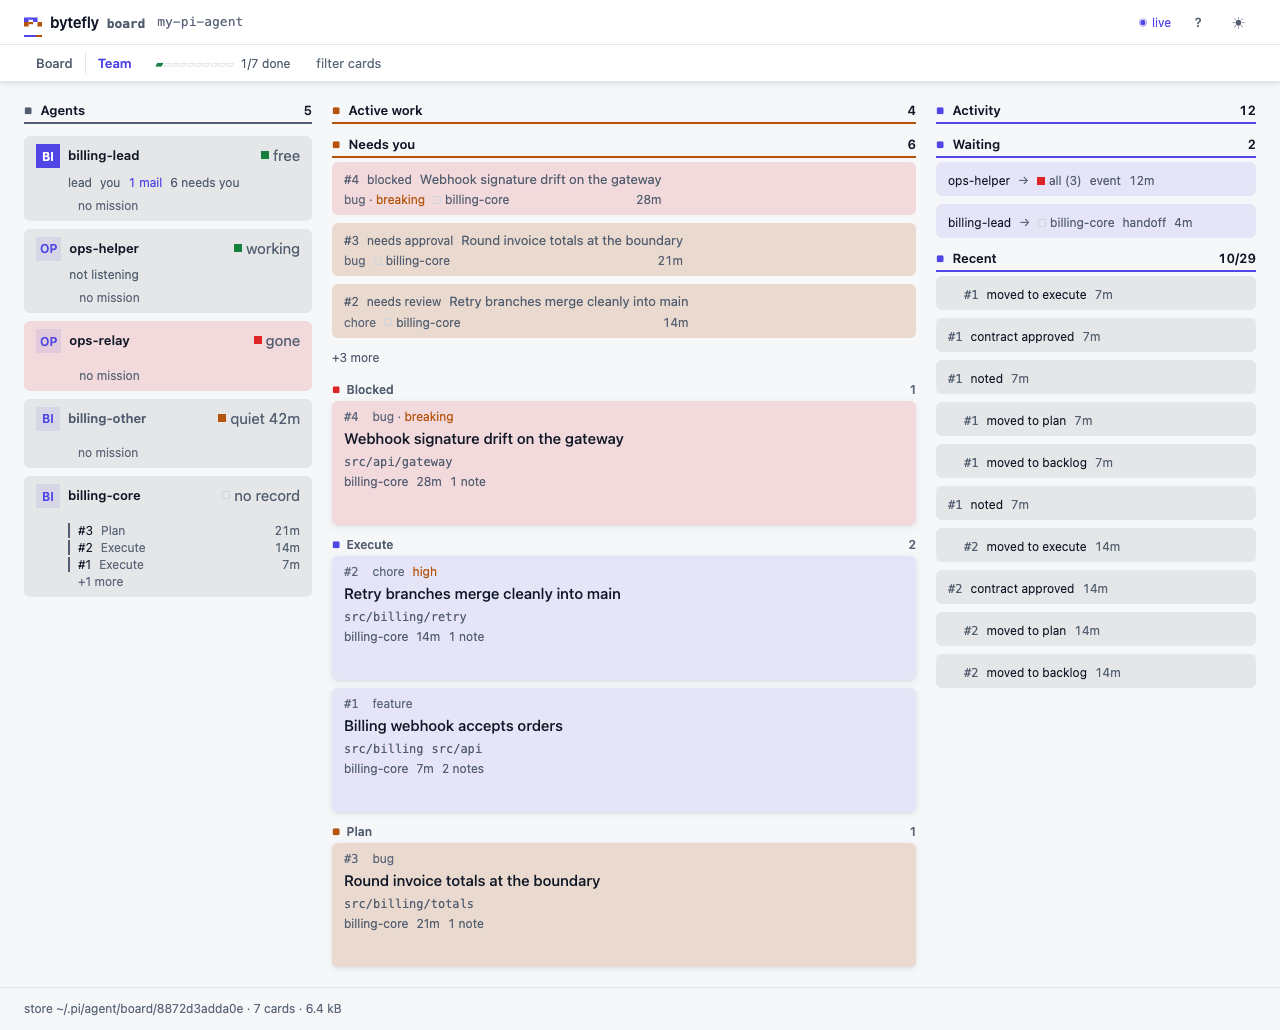
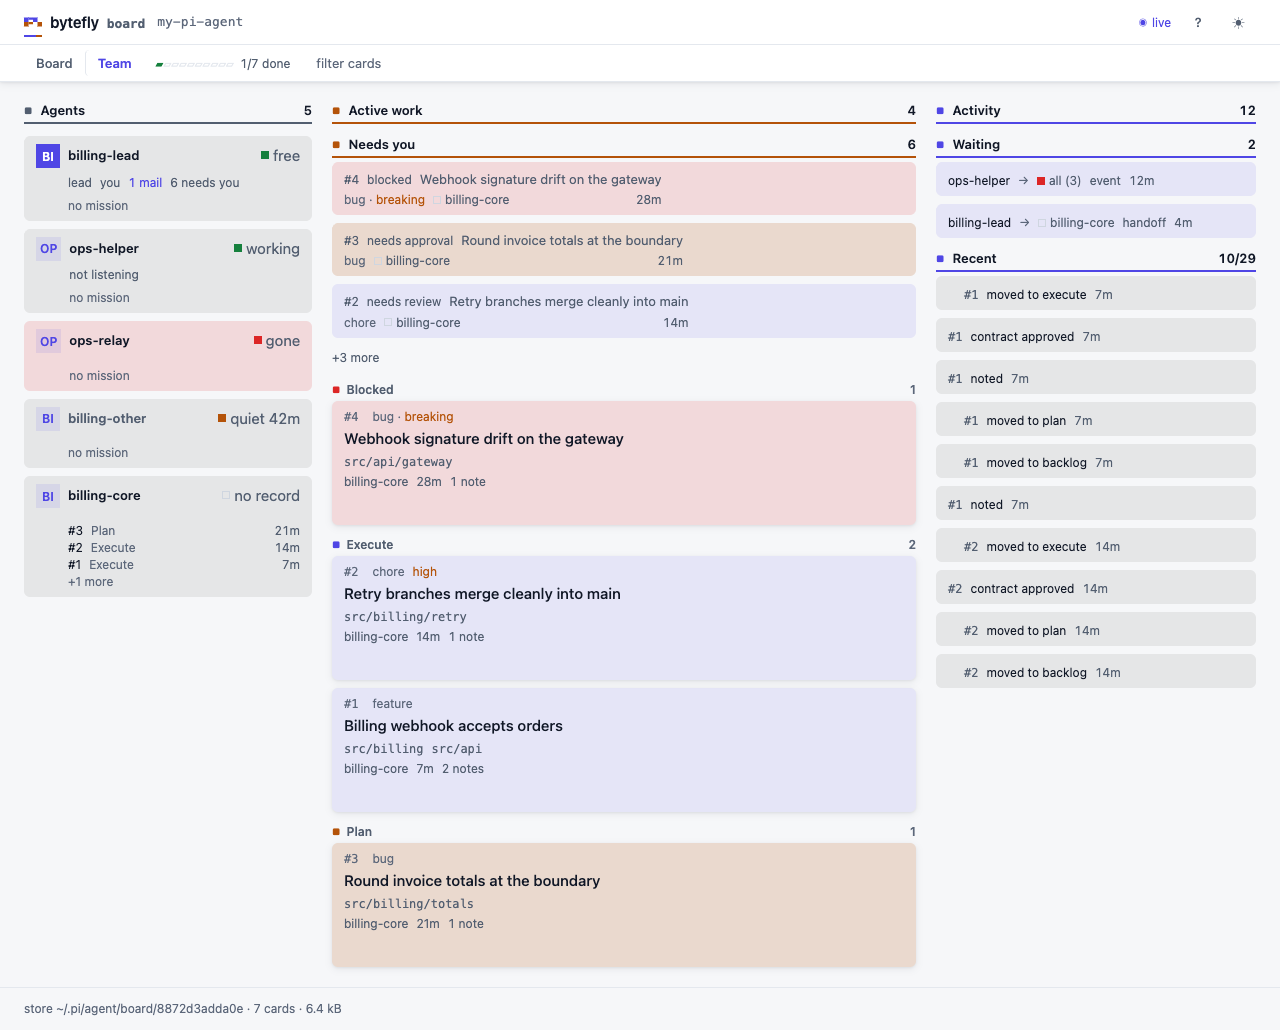
fix(board): tint a decision row with its lane's paper

diff --git a/extensions/board/view/team.test.ts b/extensions/board/view/team.test.ts
@@ -8,7 +8,7 @@
  *
  * The first half needs no browser: it is the bundle-side rule the page depends on. The second
  * boots the served page and counts, which is the only way to hold "rows are told from one another
- * by space" to a number.
+ * by space" to a number, and to see that one card drawn in two places is painted one colour.
  */
 
 import { afterAll, beforeAll, describe, expect, test } from "bun:test";
@@ -24,6 +24,7 @@ import {
 	openBoardBrowser,
 } from "../../../test/helpers/board-browser.ts";
 import { BOARD_CLIENT_JS } from "./client.ts";
+import { BOARD_CSS } from "./styles.ts";
 
 describe("the Team tab's label maps", () => {
 	test("keys a session's label without inheriting one", () => {
@@ -36,6 +37,19 @@ describe("the Team tab's label maps", () => {
 			expect(BOARD_CLIENT_JS).toContain(`var ${map} = labelMap();`);
 			expect(BOARD_CLIENT_JS).not.toContain(`var ${map} = {};`);
 		}
+	});
+});
+
+describe("the Team tab's one paper", () => {
+	test("paints a decision row on its lane's paper, and leaves the tone to the pill", () => {
+		// The row is a `.bf-row` that names its lane, so the lane's paper answers it exactly as it
+		// answers the swimlane card under it: a card drawn twice in one column is one colour.
+		expect(BOARD_CSS).toMatch(/\.board-decision\{[^}]*--paper:var\(--note-paper\)/);
+		// And no rule may paint a row by its kind again — the second legend is what this removed.
+		expect(BOARD_CSS).not.toMatch(/\.board-decision\[data-tone="[a-z]+"\]\{--paper:/);
+		// The tone is still the row's, so the mark at its edge and a danger row's sentence keep it.
+		expect(BOARD_CLIENT_JS).toContain('node.setAttribute("data-lane", card.lane)');
+		expect(BOARD_CLIENT_JS).toContain('node.setAttribute("data-tone", tone)');
 	});
 });
 
@@ -151,6 +165,50 @@ describe.skipIf(CHROME === undefined)("the Team tab's ink", () => {
 			// Three columns and three panes: the tab's six landmarks, and the only lines it draws.
 			expect(bottoms).toHaveLength(6);
 			expect(bottoms.filter((name) => !name.includes(".bf-section__cap"))).toEqual([]);
+		},
+		CASE_MS,
+	);
+
+	test(
+		"tints one card once, in the queue and in the swimlane under it",
+		async () => {
+			const page = await board.reuse();
+			await page.click("#tab-team");
+			await page.waitForSelector("#board-team .board-decision", { timeout: PAINT_MS });
+			await page.waitForTimeout(100);
+			// The ground is not composited, so two elements on one token compute one string: the paint
+			// is read, not inferred from the stylesheet.
+			const paint = await page.evaluate(() => {
+				const document = (globalThis as unknown as { document: Doc }).document;
+				const computed = (
+					globalThis as unknown as {
+						getComputedStyle(node: ElementLike): { backgroundColor: string };
+					}
+				).getComputedStyle;
+				const read = (node: ElementLike) => ({
+					card: node.getAttribute("data-card"),
+					lane: node.getAttribute("data-lane"),
+					paper: computed(node).backgroundColor,
+				});
+				const rows = Array.from(document.querySelectorAll("#board-team .board-decision"), read);
+				const cards = Array.from(document.querySelectorAll("#board-team .bf-lane .board-row"), read);
+				// The card this fixture puts in both places: the executing one, which nobody has
+				// spot-checked, so the queue and its swimlane draw the same id.
+				const shared = rows.find((row) => cards.some((card) => card.card === row.card)) ?? null;
+				const pill = document.querySelector("#board-team .board-decision .bf-tag");
+				return {
+					row: shared,
+					card: shared === null ? null : (cards.find((card) => card.card === shared.card) ?? null),
+					pill: { text: pill?.textContent ?? "", classes: (pill as unknown as { className: string })?.className ?? "" },
+				};
+			});
+			expect(paint.row?.lane).toBe("execute");
+			expect(paint.card).not.toBeNull();
+			// One card, one ground: this is the whole change, and it is only true of a computed paper.
+			expect(paint.row?.paper).toBe(paint.card?.paper);
+			// The paper stopped saying the why, so the pill still has to: its word and its tone.
+			expect(paint.pill.text).toBe("needs review");
+			expect(paint.pill.classes).toContain("bf-tone--warn");
 		},
 		CASE_MS,
 	);

diff --git a/extensions/board/view/styles.ts b/extensions/board/view/styles.ts
@@ -287,13 +287,12 @@ ${DECISION_WHY_CSS}
 /* A lane dot is a glyph in the lane's role, not a filled square. */
 .board-dot[data-lane]{background:none;color:var(--lane-role,var(--muted))}
 
-/* NEEDS YOU — one paper per decision, tinted by the tone the queue ranks it by, at one height:
-   the queue is a list of the same thing, and a decision is a fixed three lines. */
+/* NEEDS YOU — the lane's own paper, at one height: the queue is a list of the same thing, and a
+   decision is a fixed three lines. One legend per column: the paper says where the card sits,
+   which is what the swimlane card under it says too, and the tone is left to the pill, the mark
+   at the row's edge, and a danger row's sentence — a card drawn twice cannot read as two cards. */
 .board-team__decisions{display:flex;flex-direction:column;gap:var(--space-2);min-width:0}
-.board-decision{--paper:var(--raised);flex-wrap:nowrap;align-items:flex-start;min-height:var(--team-row-h);cursor:pointer}
-.board-decision[data-tone="danger"]{--paper:var(--danger-soft)}
-.board-decision[data-tone="warn"]{--paper:var(--search-soft)}
-.board-decision[data-tone="accent"]{--paper:var(--accent-soft)}
+.board-decision{--paper:var(--note-paper);flex-wrap:nowrap;align-items:flex-start;min-height:var(--team-row-h);cursor:pointer}
 .board-decision__body{min-width:0;display:flex;flex-direction:column;gap:var(--space-1)}
 .board-decision__open{display:flex;flex-wrap:wrap;align-items:baseline;gap:var(--space-2);min-width:0;appearance:none;border:0;background:none;padding:0;color:var(--text);font:var(--fw-medium) var(--fs-sm) var(--font-ui);text-align:left;cursor:pointer}
 .board-decision__open:hover .bf-row__title{color:var(--accent)}

diff --git a/extensions/board/view/active.ts b/extensions/board/view/active.ts
@@ -167,9 +167,12 @@ const activeTemplate = String.raw`(function () {
     var tone = decisionTone(entry.kind);
     var node = el("article", "bf-row " + N.decision);
     node.setAttribute("data-tone", tone);
+    // The lane is the paper, so the row is tinted by the same rule the card under it is: one card
+    // drawn in two places in this column is one colour.
+    node.setAttribute("data-lane", card.lane);
     node.setAttribute("data-card", card.id);
-    // The paper is the tone now, so the glyph a decision used to lead with would say a third
-    // time what the card's ground and its why word already say: the block is the mark.
+    // The tone is the pill, the mark at the row's edge, and a danger row's sentence — three
+    // statements, none of them the ground, so a decision needs no glyph of its own.
     var body = el("div", N.decisionBody);
     node.appendChild(body);
 

diff --git a/lib/board/README.md b/lib/board/README.md
@@ -451,7 +451,8 @@ it and two statements drift apart. `BoardTone` is the page kit's own colour word
 so a tone is the name of a CSS property and the page needs no map; `BOARD_TONES`, `REASON_TONE`
 (every reason kind, `waiting` included because the card face invents it), and
 `DECISION_KINDS` / `DECISION_TONE`, the Team queue's kinds in rank order with the tone each
-wears, so a row's position and its colour cannot disagree. The rule behind the words: warn is
+wears in its pill and on its mark, so a row's rank and the tone it says cannot disagree; the
+row's own ground is its lane's, which is the card's paper under it. The rule behind the words: warn is
 a person who must act next, danger is a refusal or a loss, and anything merely true of the
 card is muted.
 

diff --git a/CHANGELOG.md b/CHANGELOG.md
@@ -6,6 +6,11 @@ to [Semantic Versioning](https://semver.org/spec/v2.0.0.html).
 
 ## [Unreleased]
 
+- `board`: a card drawn twice in the Team tab's ACTIVE WORK is one colour. The queue row wore its
+  reason's tone while the swimlane card under it wore its lane's, so one card read as two; both now
+  take the lane's paper, and the tone moves to the pill, the mark at the row's edge, and a danger
+  row's sentence.
+
 - `board`: a contract line a card still owes stops printing as a blank. The transcript says
   `acceptance: missing` — the word a card's next step already uses — and the card dialog leaves the
   unwritten row out, because the reason line above the block already names it; an empty cell under a
